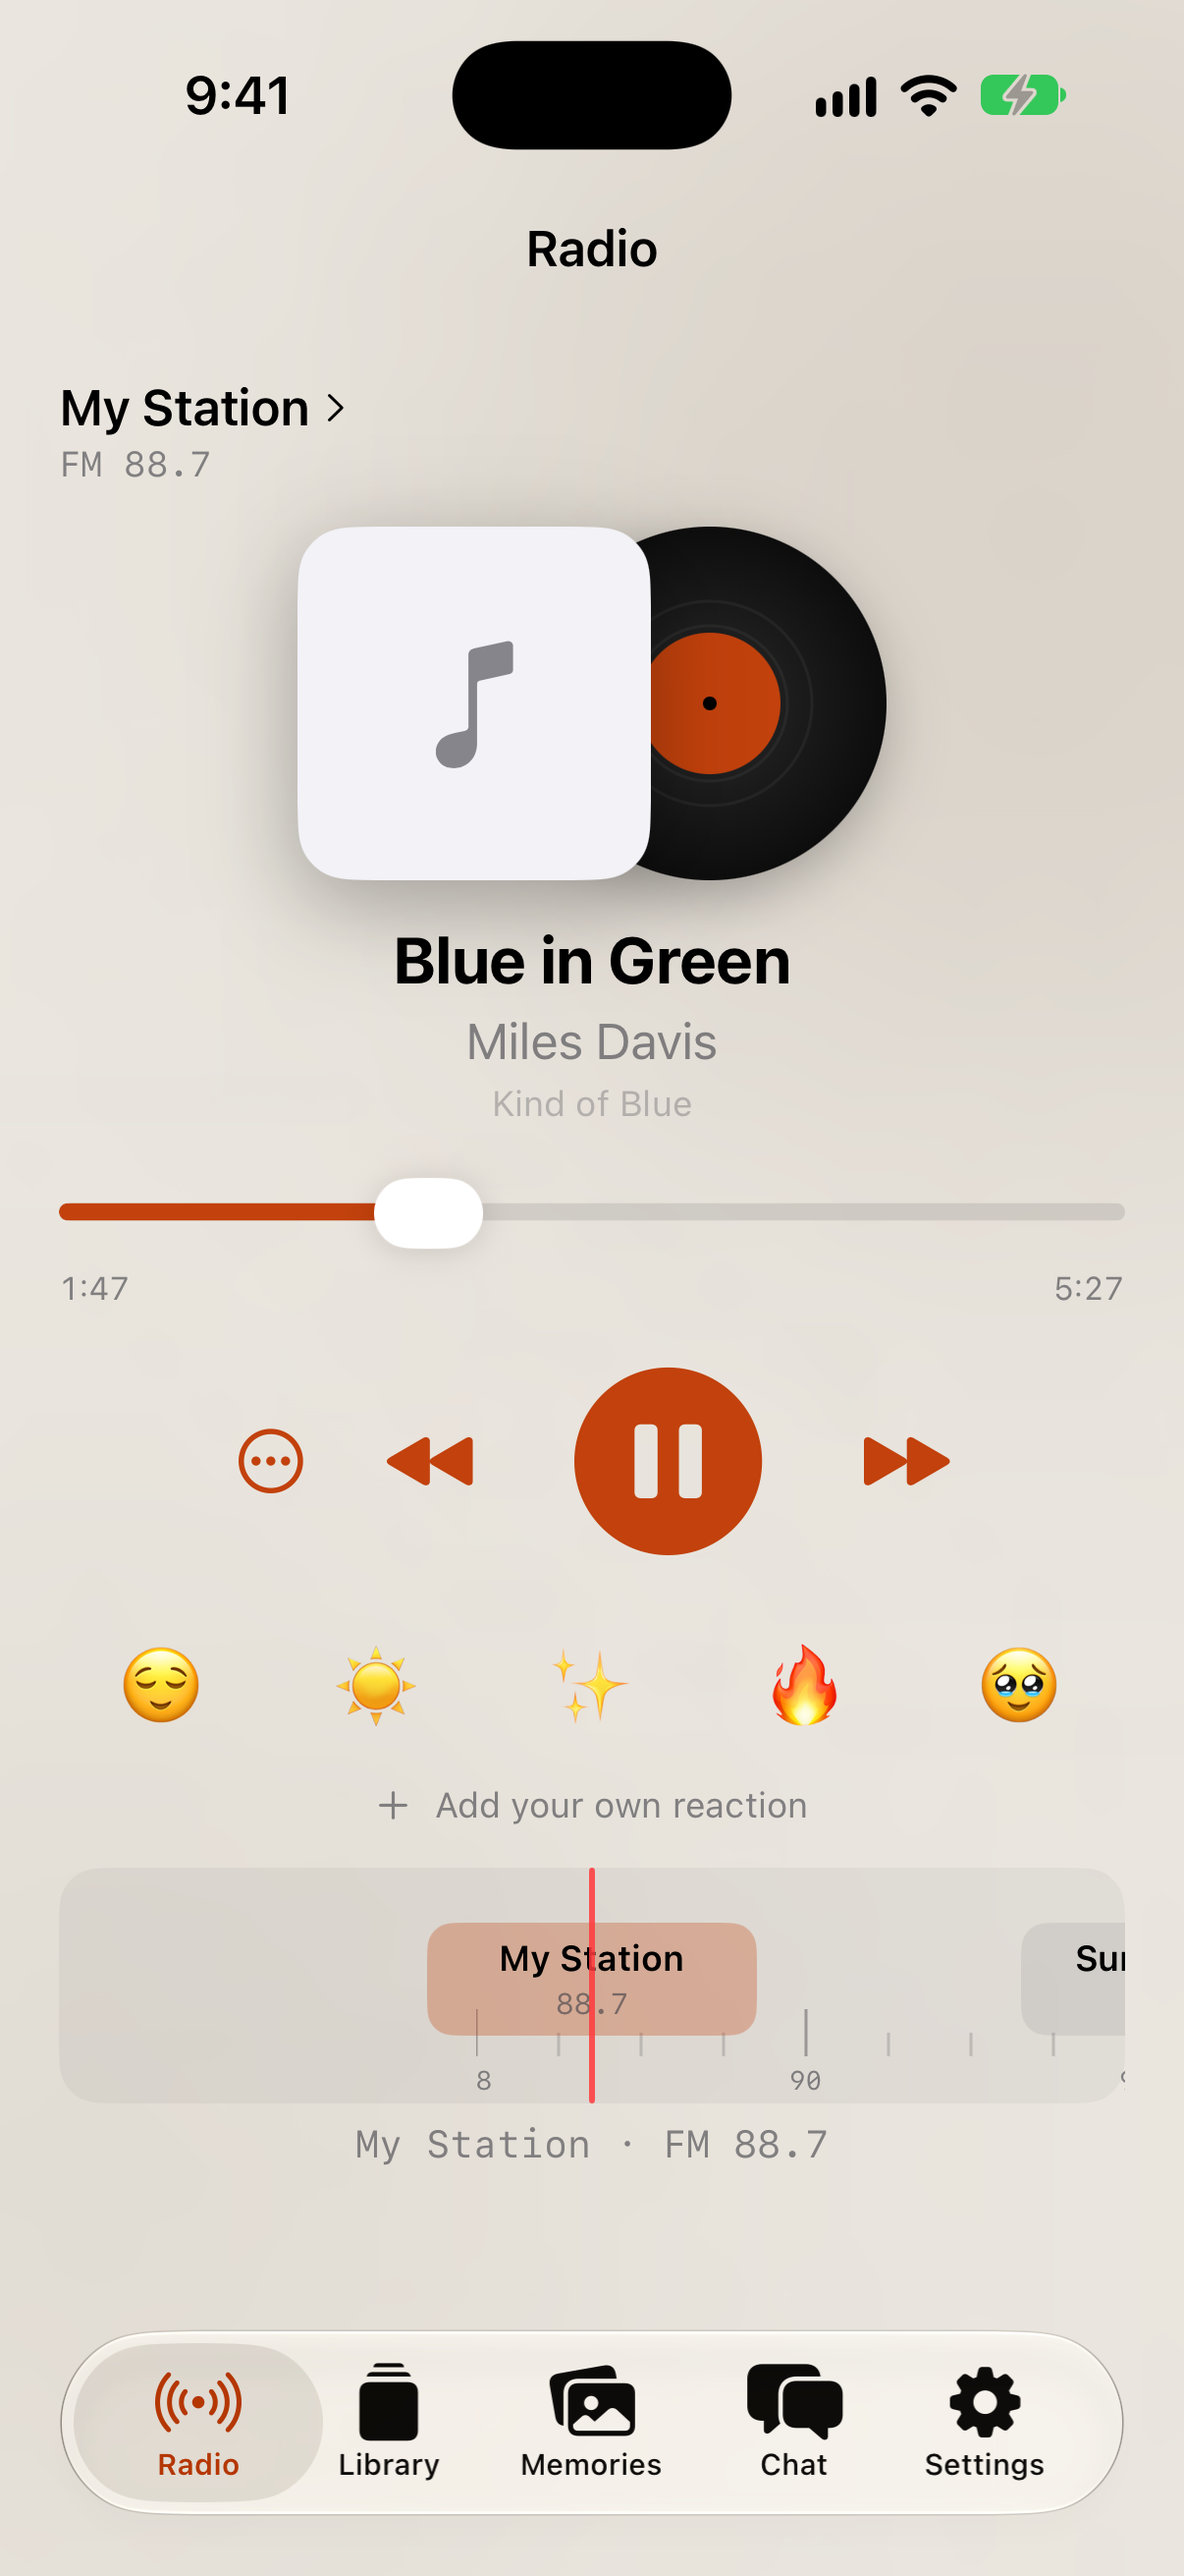
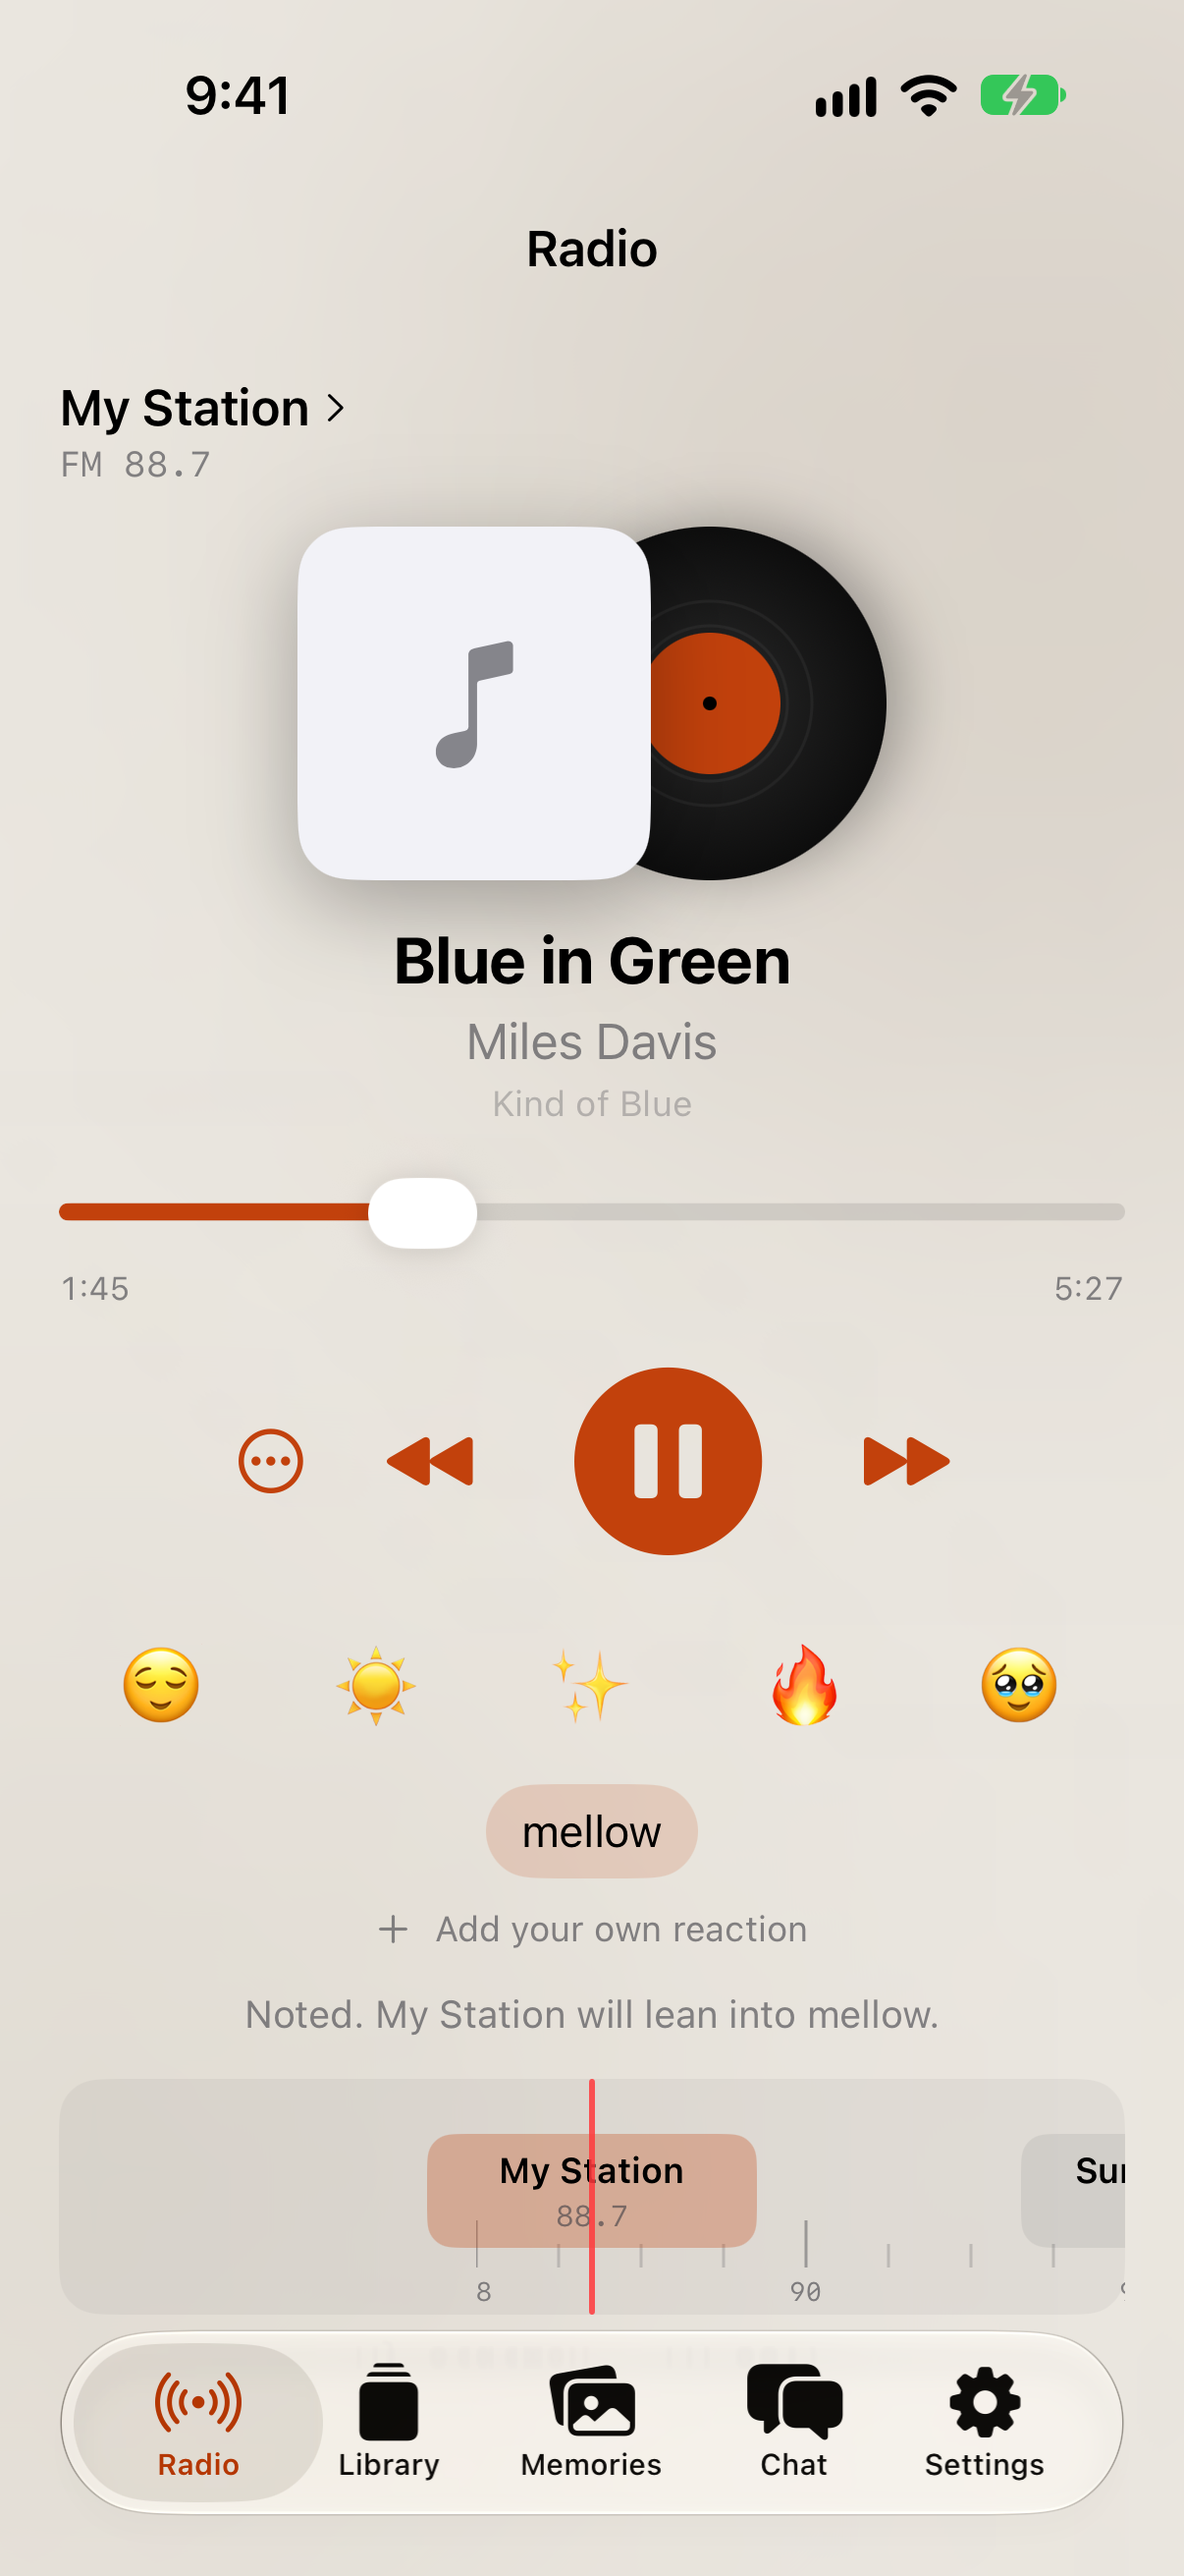
Register emoji slider UI tests and refresh evidence

diff --git a/docs/design/juke-app/ios-polish-r2/k-evidence/README.md b/docs/design/juke-app/ios-polish-r2/k-evidence/README.md
@@ -1,10 +1,11 @@
 # PR K: Emoji slider
 
-The iOS Radio reaction strip now supports hold, scrub, preview, and release to choose. Tap and VoiceOver controls remain available.
+The iOS Radio reaction slider supports hold, scrub, enlarged preview, and release to choose. Tap and VoiceOver controls remain available. Selected “In your words” reactions stay visible as removable chips below the emoji slider; JukeMac continues to show word reactions in its reaction strip.
 
 | Round 3 reference | iPhone 18 Pro, iOS 27.0 |
 | --- | --- |
 | ![Round 3 reference](../b-round3-reference.png) | ![Emoji slider](k-emoji-slider-iphone-18-pro-ios-27.png) |
 
-- Unit tests cover leftmost recency ordering, drag slot selection, VoiceOver adjustment, and account-scoped persistence.
-- **Not verified on device.** The capture is from the required iOS simulator.
+- UI tests cover holding and releasing on one emoji, scrubbing to the neighboring emoji, and keeping/removing a word reaction.
+- Unit tests cover recency ordering, slot mapping, VoiceOver adjustment, and account-scoped persistence. JukeMac tests cover visibility and removal of a word reaction from its strip.
+- **Not verified on device.** Simulator comparison evidence: iPhone 18 Pro on iOS 27.0.
